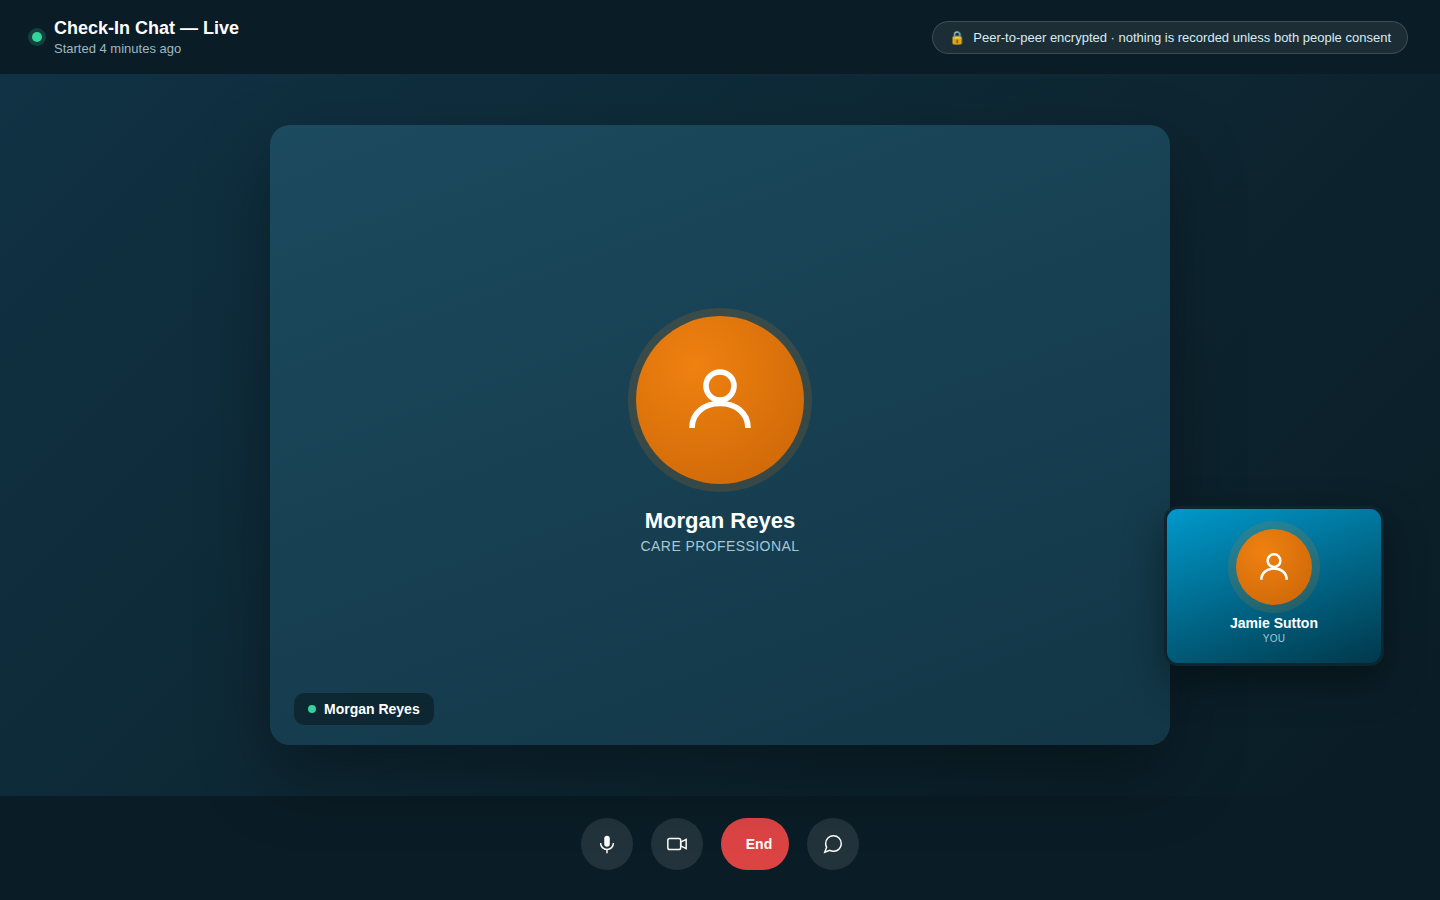
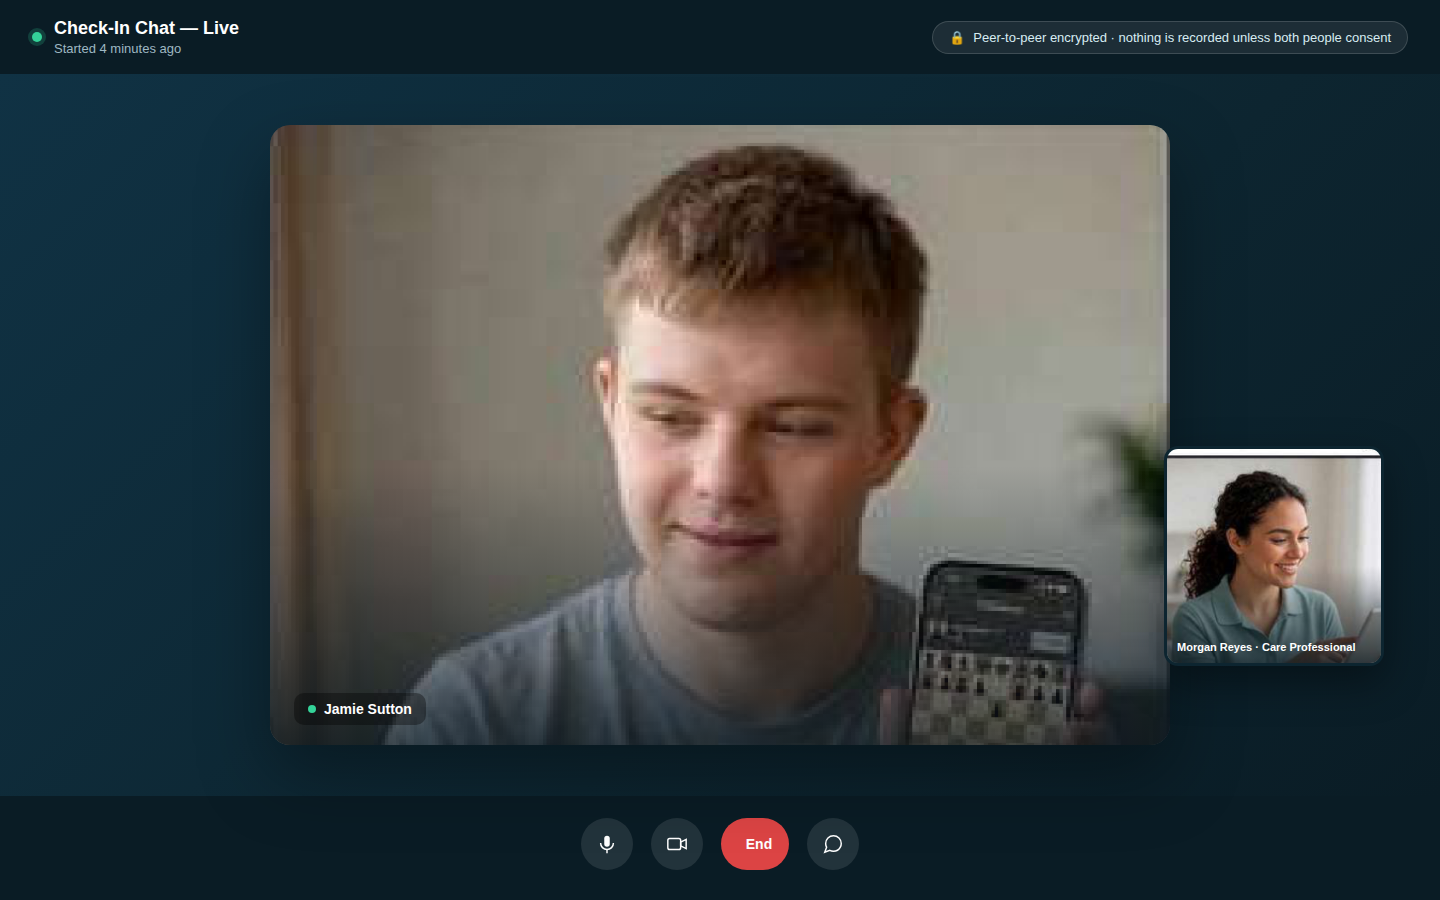
Use real photos in Check-In Chats mockup, finalize homepage card title
- Extracted the two-person Check-In Chat photo from Greg's own
  "aSuggestion Digital Health Ecosystem Overview.pdf" brochure (rendered the
  PDF page at high resolution and split it into the two individual photos)
  and swapped them into the video-call mockup in place of icon avatars
- Fixed a CSS bug where the photo-fit rule was scoped only to the main
  tile, leaving the picture-in-picture tile showing an unstyled, clipped
  corner of the full-size source image
- Homepage: "Live & Video Content Library" -> "Live Interactive Sessions
  and Video Content Library" per Greg's request; verified it still fits
  cleanly in the 3-column Excursion Tracking row

diff --git a/index.html b/index.html
@@ -215,7 +215,7 @@
               <p class="mt-2 text-sm leading-6 text-slate-600">Log community outings, calculate mileage automatically, and publish group photos with participant-level consent built in.</p>
             </div>
             <div class="sm:border-l sm:border-slate-100 sm:pl-6">
-              <h3 class="text-base font-bold text-brand-navy">Live &amp; Video Content Library</h3>
+              <h3 class="text-base font-bold text-brand-navy">Live Interactive Sessions and Video Content Library</h3>
               <p class="mt-2 text-sm leading-6 text-slate-600">A curated library of videos and live content, shared by your organization and the wider community.</p>
             </div>
             <div class="sm:border-l sm:border-slate-100 sm:pl-6">
